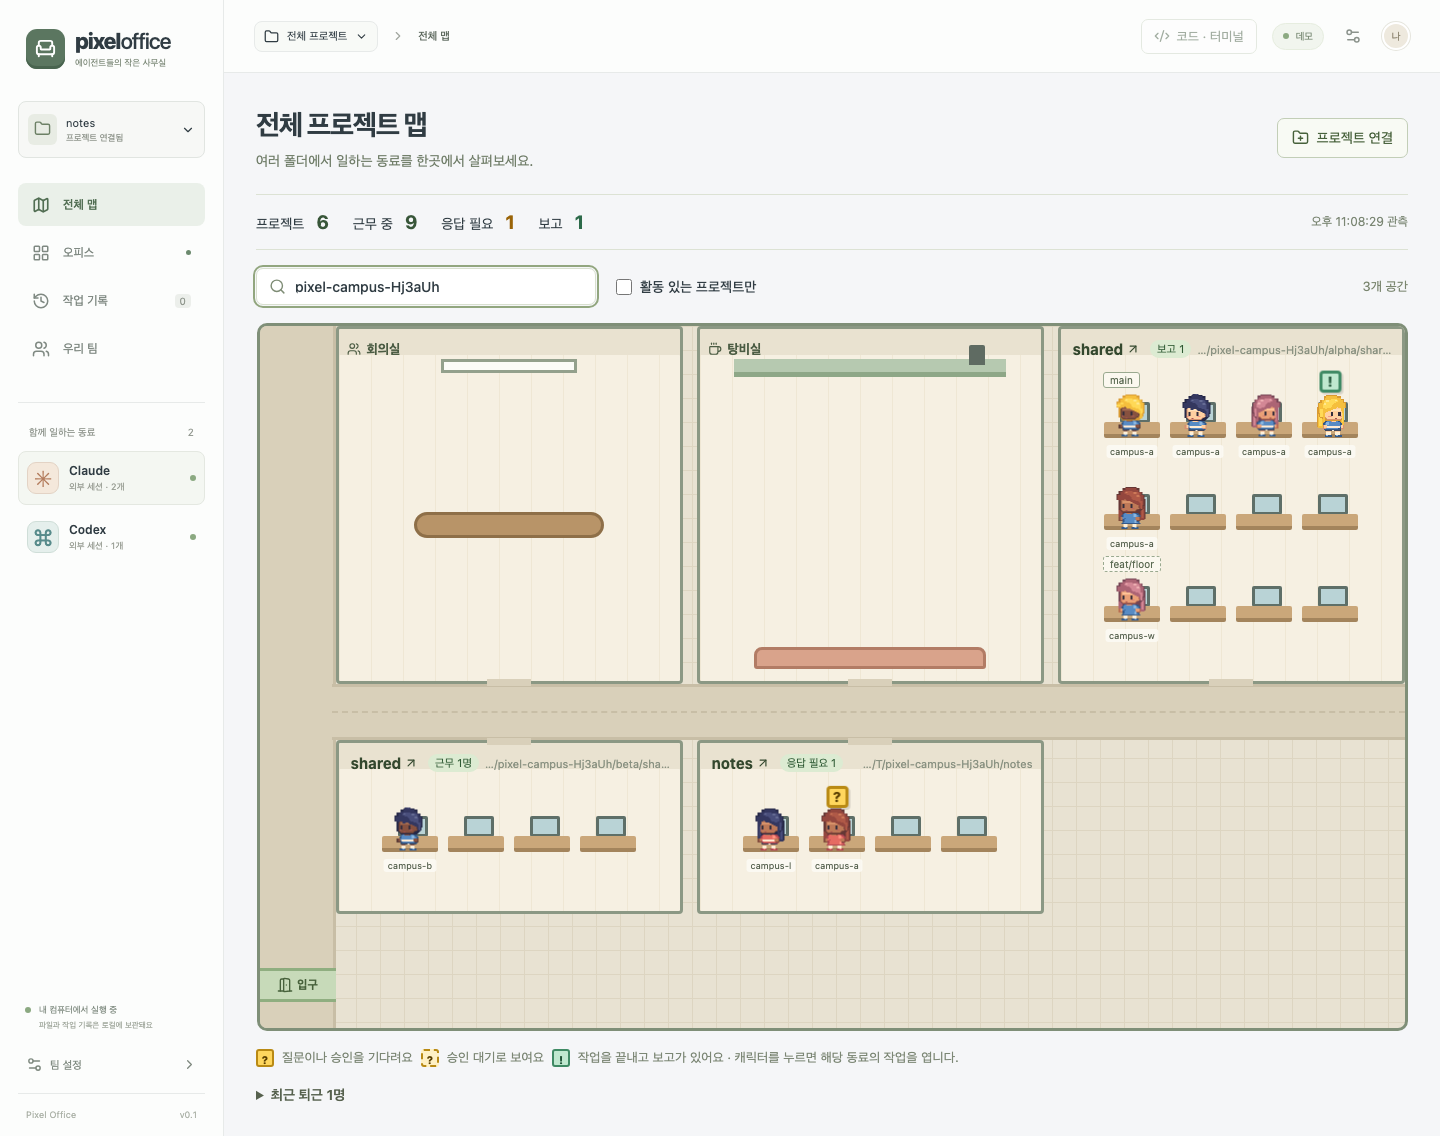
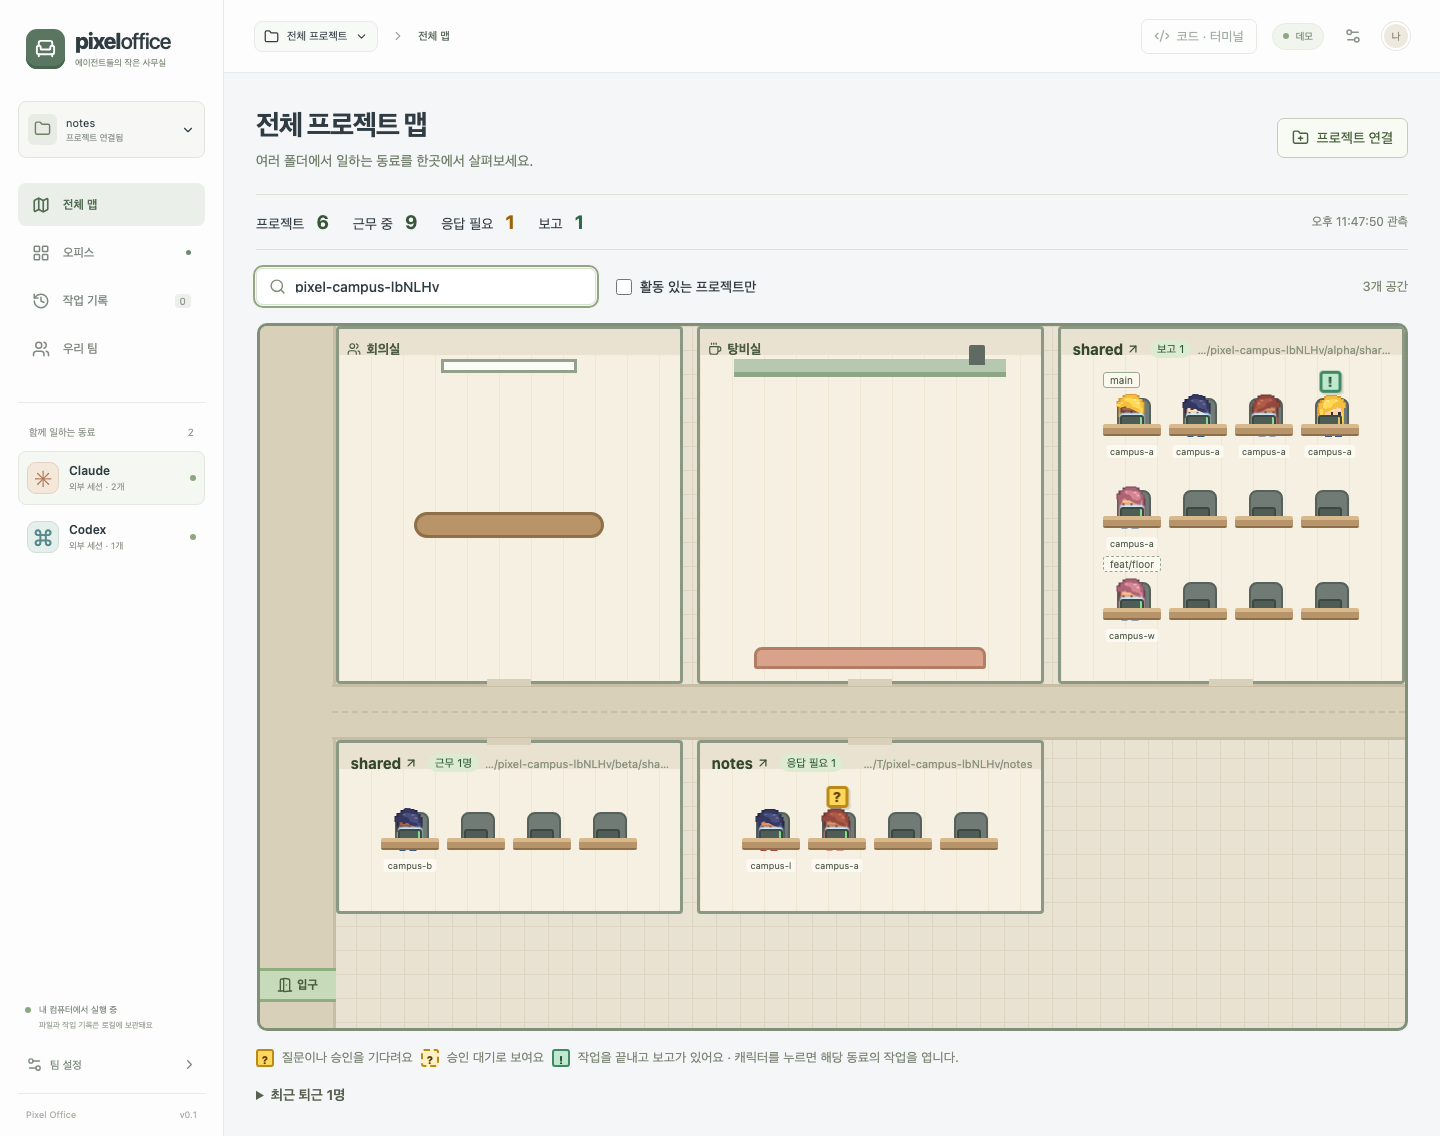
style(floor): seat coworkers behind their monitors
Coworkers stood in front of their desks facing the viewer with the monitor hidden behind their heads, which did not read as using a computer. Desks now have a back layer (chair) and a front layer (monitor back and desk) drawn above the row's coworkers, so only the head shows over the screen. A working seat lights the screen edge with a green power light, an idle one shows amber, and an empty desk stays dark.

diff --git a/src/client/floor/FloorMap.tsx b/src/client/floor/FloorMap.tsx
@@ -4,7 +4,7 @@ import { repositoryName } from '../components/RepositoryList';
 import type { ProjectRoom, ProjectWorker } from '../overview/projects';
 import { FloorWorker } from './FloorWorker';
 import { hash, placements } from './choreography';
-import { floorLayout, type Cell, type Loc } from './layout';
+import { FEET, SEAT_W, floorLayout, type Cell, type Loc } from './layout';
 import './floor.css';
 interface Departure {
   worker: ProjectWorker;
@@ -154,6 +154,16 @@ export function FloorMap({
     if (Object.keys(leaving).length) setDepartures((d) => ({ ...d, ...leaving }));
   }, [visible.map((w) => w.id).join(), places]);
   const byRoot = new Map(rooms.map((r) => [r.root, r]));
+  // Who is sitting at each desk right now: a working screen lights up, an empty chair stays dark.
+  const seated = new Map<string, ProjectWorker>();
+  for (const w of visible) {
+    const place = places.get(w.id)!;
+    if (place.kind === 'desk') seated.set(`${place.x}:${place.y}`, w);
+  }
+  const seatState = (x: number, y: number, s: number) => {
+    const w = seated.get(`${x + s * SEAT_W + SEAT_W / 2}:${y + FEET}`);
+    return !w ? 'empty' : w.active ? 'working' : 'idle';
+  };
   return (
     <div className="floor-viewport" ref={box}>
       <section
@@ -206,9 +216,22 @@ export function FloorMap({
         )}
         {layout.rows.map((row, i) => (
           <div
-            key={`${row.cell}-${i}`}
-            className="floor-desks"
-            style={{ left: row.x, top: row.y, '--seats': row.seats } as CSSProperties}
+            key={`back-${row.cell}-${i}`}
+            className="floor-desks back"
+            style={{ left: row.x, top: row.y }}
+            aria-hidden="true"
+          >
+            {Array.from({ length: row.seats }, (_, s) => (
+              <i key={s} data-seat={seatState(row.x, row.y, s)} />
+            ))}
+          </div>
+        ))}
+        {layout.rows.map((row, i) => (
+          <div
+            key={`front-${row.cell}-${i}`}
+            className="floor-desks front"
+            // In front of whoever sits in this row, behind anyone walking below it.
+            style={{ left: row.x, top: row.y, zIndex: Math.round(row.y + FEET) + 1 }}
             aria-hidden="true"
           >
             {row.tag && (
@@ -217,7 +240,7 @@ export function FloorMap({
               </span>
             )}
             {Array.from({ length: row.seats }, (_, s) => (
-              <i key={s} />
+              <i key={s} data-seat={seatState(row.x, row.y, s)} />
             ))}
           </div>
         ))}

diff --git a/src/client/floor/floor.css b/src/client/floor/floor.css
@@ -165,7 +165,8 @@
   font-size: 11px;
   color: #47613b;
 }
-/* Desk rows: monitor behind, desk surface in front of the chair. */
+/* Desk rows, seen from the front: the chair is behind the coworker, the monitor's back and the
+   desk are in front, so only the head shows over the screen. Row y: head 4-24, body to 49. */
 .floor-desks {
   position: absolute;
   display: flex;
@@ -177,27 +178,48 @@
   width: 66px;
   height: 92px;
 }
-.floor-desks > i::before {
+.floor-desks.back > i::before {
+  content: '';
+  position: absolute;
+  left: 18px;
+  top: 12px;
+  width: 30px;
+  height: 30px;
+  background: #6f7b74;
+  border: 2px solid #56615b;
+  border-radius: 8px 8px 3px 3px;
+}
+.floor-desks.front > i::before {
   content: '';
   position: absolute;
   left: 21px;
-  top: 16px;
+  top: 29px;
   width: 24px;
-  height: 15px;
-  background: #b9d3d6;
-  border: 3px solid #5e6f68;
-  border-radius: 2px;
+  height: 13px;
+  background: #4f5d57;
+  border: 2px solid #3d4843;
+  border-radius: 3px 3px 1px 1px;
+  box-sizing: border-box;
 }
-.floor-desks > i::after {
+.floor-desks.front > i::after {
   content: '';
   position: absolute;
-  left: 5px;
-  top: 36px;
-  width: 56px;
-  height: 12px;
-  background: #caa77a;
-  border-bottom: 4px solid #a3845c;
+  left: 4px;
+  top: 38px;
+  width: 58px;
+  height: 10px;
+  background: linear-gradient(#d8b98c 0 4px, #b8946a 4px);
+  border-bottom: 2px solid #8e6f48;
   border-radius: 2px;
+}
+/* A screen in use lights the face above it; the monitor's power light shows who is at work. */
+.floor-desks.front > i[data-seat='working']::before {
+  box-shadow:
+    0 -2px 2px #cdeeff,
+    inset -4px -3px 0 -2px #7ee08a;
+}
+.floor-desks.front > i[data-seat='idle']::before {
+  box-shadow: inset -4px -3px 0 -2px #e6c35a;
 }
 .floor-lane-tag {
   position: absolute;

diff --git a/src/client/floor/layout.ts b/src/client/floor/layout.ts
@@ -56,12 +56,12 @@ const ROW_H = 92;
 const PAD_B = 22;
 const CORRIDOR_H = 56;
 const BAND_GAP = 18;
-const SEAT_W = 66;
+export const SEAT_W = 66;
 const SEAT_PAD = 26;
 const MAX_ROWS = 3;
 const LOBBY_H = 96;
 // Feet sit a little above the desk front so the desk hides the chair, not the character.
-const FEET = 62;
+export const FEET = 62;
 export interface FloorOptions {
   // Desk rows shown per room before the rest is counted as overflow.
   maxRows?: number;
